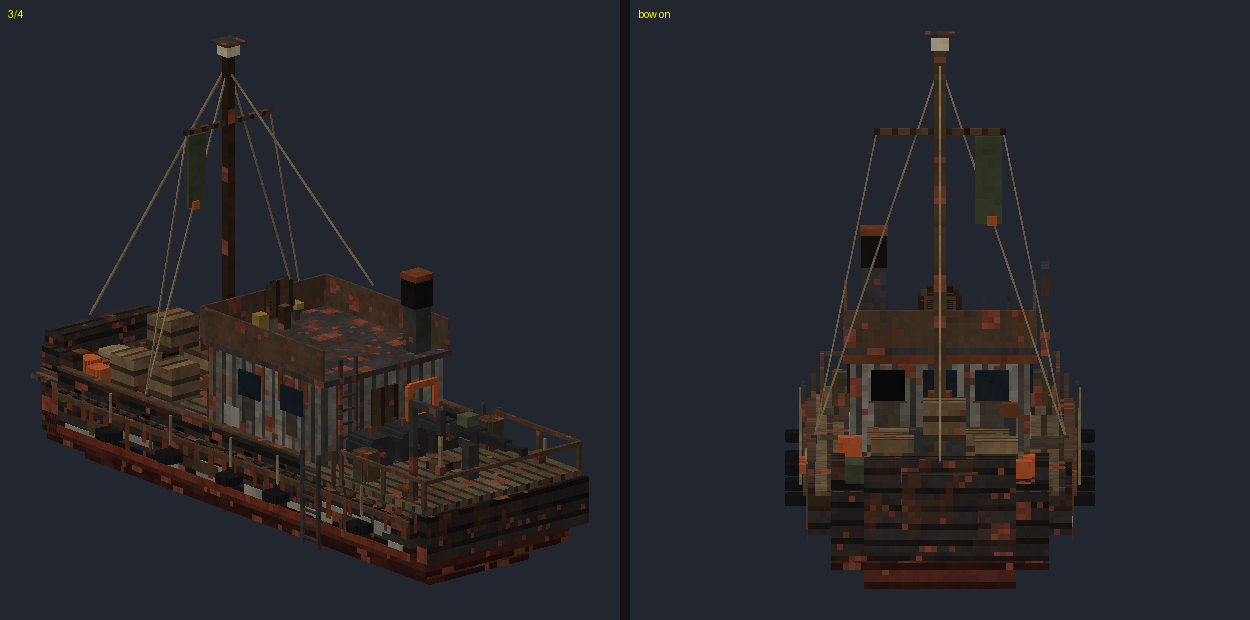
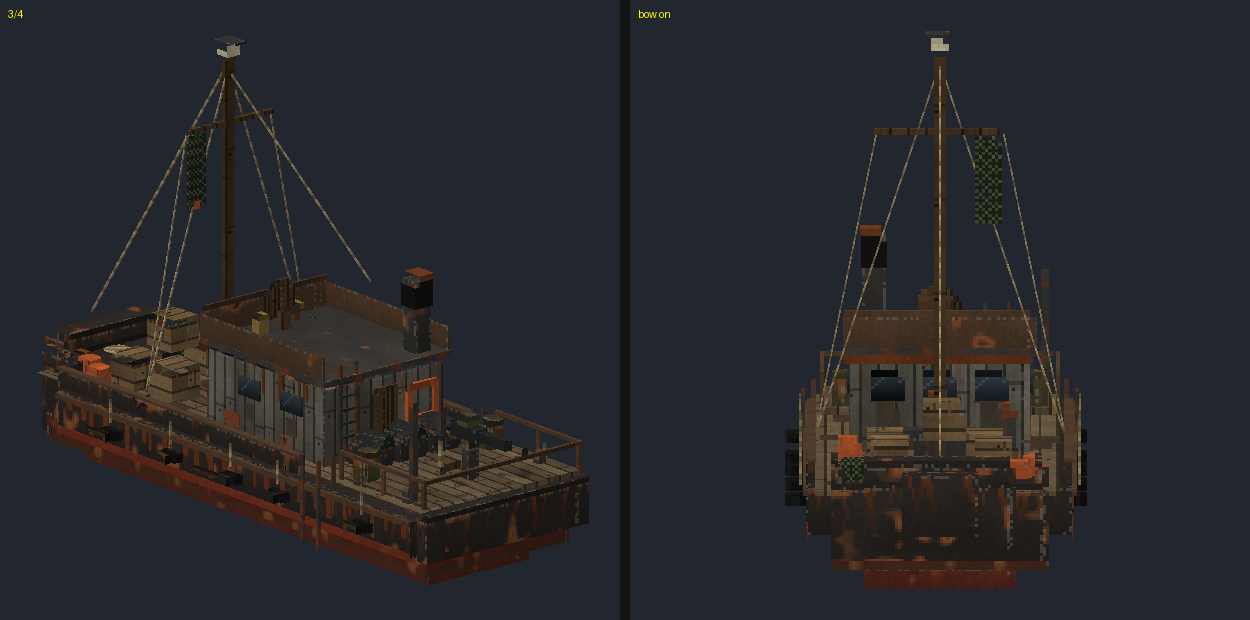
Shinsei Maru: weathered, face-aware texture at twice the resolution
Rusty hull plates with streaks, flaking primer and an algae band, planked
and grimy wheelhouse, nailed deck planks, net mesh, rope and tyre patterns.

Claude-Session: https://claude.ai/code/session_01FZRWx5ihaDNBvykxaLAGZd

diff --git a/tools/make_props.py b/tools/make_props.py
@@ -143,9 +143,13 @@ def weathered(region, amount, rng):
     return out * (1 - grime) + GRIME * grime
 
 
-def write(name, bones, size, palette, glow_kinds=None, seed=1, texels=TEXELS, planks=None, bounds=4, weather=None):
+def write(name, bones, size, palette, glow_kinds=None, seed=1, texels=TEXELS, planks=None, bounds=4, weather=None, styles=None):
+    """styles (kind -> how it's painted, see paint_boat) paints the texture face by face instead of with paint()."""
     pack(bones, size)
-    img, glow = paint(bones, size, palette, glow_kinds or {}, seed, texels, planks, weather)
+    if styles is not None:
+        img, glow = paint_boat(bones, size, palette, seed, texels, styles), None
+    else:
+        img, glow = paint(bones, size, palette, glow_kinds or {}, seed, texels, planks, weather)
     tex = os.path.join(ASSETS, "textures", "entity")
     Image.fromarray(img.astype(np.uint8), "RGBA").save(os.path.join(tex, name + ".png"))
     if glow_kinds:
@@ -173,6 +177,233 @@ def write(name, bones, size, palette, glow_kinds=None, seed=1, texels=TEXELS, pl
         json.dump(geo, f, indent=1)
         f.write("\n")
     print("wrote", name, sum(len(b["cubes"]) for b in bones.values()), "cubes")
+
+
+# ---------------------------------------------------------------- the Shinsei Maru's weathered paint
+
+RUST_DARK2 = np.array([70.0, 36.0, 22.0])
+RUST_MID = np.array([122.0, 62.0, 32.0])
+RUST_LIGHT = np.array([160.0, 92.0, 50.0])
+BARE = np.array([104.0, 102.0, 98.0])
+ALGAE = np.array([58.0, 66.0, 40.0])
+
+
+def smooth_noise(h, w, cell, rng, octaves=2):
+    """Value noise in [0, 1]: random values on a coarse grid, bilinearly blended, a finer octave on top."""
+    out = np.zeros((h, w))
+    amp, total = 1.0, 0.0
+    for o in range(octaves):
+        c = max(1.0, cell / (2 ** o))
+        gh, gw = int(h / c) + 2, int(w / c) + 2
+        grid = rng.random((gh, gw))
+        ys, xs = np.arange(h) / c, np.arange(w) / c
+        y0, x0 = np.floor(ys).astype(int), np.floor(xs).astype(int)
+        fy, fx = (ys - y0)[:, None], (xs - x0)[None, :]
+        fy, fx = fy * fy * (3 - 2 * fy), fx * fx * (3 - 2 * fx)
+        a = grid[y0][:, x0]
+        b = grid[y0][:, x0 + 1]
+        cc = grid[y0 + 1][:, x0]
+        d = grid[y0 + 1][:, x0 + 1]
+        out += amp * ((a * (1 - fx) + b * fx) * (1 - fy) + (cc * (1 - fx) + d * fx) * fy)
+        total += amp
+        amp *= 0.5
+    return out / total
+
+
+def faces(sx, sy, sz):
+    """The faces of a box's UV net (Bedrock box UV, in texels): (name, x, y, width, height). Sides run top to bottom."""
+    return [("top", sz, 0, sx, sz), ("bottom", sz + sx, 0, sx, sz),
+            ("side", 0, sz, sz, sy), ("side", sz, sz, sx, sy), ("side", sz + sx, sz, sz, sy), ("side", 2 * sz + sx, sz, sx, sy)]
+
+
+def rusty_side(face, base, amount, t, rng, primer=True, algae=0.0):
+    """A painted side, weathered: grime darkening towards the bottom, rust running down from the top edge in streaks
+    (darker, browner as they go), rust blooms with dark cores, flakes of paint gone to the primer (or bare metal) with
+    a dark rim, and the edges worn pale."""
+    h, w = face.shape[:2]
+    if h == 0 or w == 0:
+        return face
+    out = face.copy()
+    down = (np.arange(h) / max(1, h - 1))[:, None]
+    if min(h, w) <= 2 * t:
+        # a thin rail or rung: just rusty, here and there (flakes and worn edges would stripe it)
+        n = smooth_noise(h, w, 2.0 * t, rng)
+        m = (np.clip((n - (1.0 - 0.45 * amount)) / 0.2, 0, 1) * 0.8)[..., None]
+        return out * (1 - m) + RUST_MID * m
+    out *= (1.0 - 0.22 * amount * down ** 1.5)[..., None]
+    # streaks: from points along the top, running down, wavering, fading; a few long ones, more short ones
+    for _ in range(int(w * 0.09 * amount * t) + (1 if rng.random() < amount else 0)):
+        x = rng.integers(0, w)
+        length = int(h * rng.uniform(0.25, 1.0))
+        width = rng.integers(1, max(2, t + 1))
+        strength = rng.uniform(0.35, 0.8) * amount
+        for k in range(length):
+            xx = int(np.clip(x + round(np.sin(k * 0.35 + x) * 0.7), 0, w - 1))
+            f = (1.0 - k / max(1, length)) ** 0.8 * strength
+            col = RUST_MID * (1 - k / max(1, length)) + RUST_DARK2 * (k / max(1, length))
+            out[k, xx:xx + width] = out[k, xx:xx + width] * (1 - f) + col * f
+    # rust blooms: noise above a threshold, dark at the heart, orange round it
+    n = smooth_noise(h, w, 4.0 * t, rng)
+    bloom = np.clip((n - (1.0 - 0.34 * amount)) / 0.12, 0, 1)
+    heart = np.clip((n - (1.0 - 0.14 * amount)) / 0.06, 0, 1)
+    rust_col = RUST_LIGHT * (1 - heart[..., None]) + RUST_DARK2 * heart[..., None]
+    out = out * (1 - 0.85 * bloom[..., None]) + rust_col * (0.85 * bloom[..., None])
+    # flakes: patches where the paint has gone, to the red primer or bare metal, rimmed dark
+    f = smooth_noise(h, w, 3.0 * t, rng)
+    flake = f > 1.0 - 0.1 * amount
+    rim = np.zeros_like(flake)
+    rim[1:, :] |= flake[:-1, :] & ~flake[1:, :]
+    rim[:, 1:] |= flake[:, :-1] & ~flake[:, 1:]
+    under = PRIMER if primer else BARE
+    out[flake] = under * (0.85 + 0.25 * rng.random((int(flake.sum()), 1)))
+    out[rim] *= 0.7
+    # worn edges: the paint rubbed pale along the face's edges, here and there
+    edge = np.zeros((h, w), bool)
+    edge[0, :] = edge[-1, :] = True
+    edge[:, 0] = edge[:, -1] = True
+    worn = edge & (rng.random((h, w)) < 0.45 * amount)
+    out[worn] = out[worn] * 0.6 + np.array([150.0, 146.0, 136.0]) * 0.4
+    if algae > 0:
+        band = (np.clip((down - 0.6) / 0.4, 0, 1) * algae * (0.6 + 0.4 * smooth_noise(h, w, 2.0 * t, rng)))[..., None]
+        out = out * (1 - band) + ALGAE * band
+    return out
+
+
+def planked(face, base, t, rng, along_rows, stain=0.0):
+    """Planks (3 model pixels wide) laid along the face's rows or columns: each its own shade, dark seams, wood grain
+    running along it, a nail at each end of each length; oil and water stains on top."""
+    h, w = face.shape[:2]
+    if h == 0 or w == 0:
+        return face
+    step = 3 * t
+    across = np.arange(h) if along_rows else np.arange(w)
+    plank = across // step
+    tint = 0.82 + 0.3 * rng.random(int(plank.max()) + 2)
+    seam = (across % step == 0)
+    grain_dir = (h, w)
+    g = smooth_noise(h, w, 1.0, rng, octaves=1)
+    # grain: noise stretched along the planks
+    stretch = smooth_noise(*(grain_dir), 6.0 * t, rng)
+    if along_rows:
+        grain = 0.9 + 0.2 * (0.6 * stretch + 0.4 * np.repeat(g[:, :1], w, axis=1))
+        shade = (tint[plank] * np.where(seam, 0.55, 1.0))[:, None]
+    else:
+        grain = 0.9 + 0.2 * (0.6 * stretch + 0.4 * np.repeat(g[:1, :], h, axis=0))
+        shade = (tint[plank] * np.where(seam, 0.55, 1.0))[None, :]
+    out = face * (shade * grain)[..., None]
+    # plank ends with nails every ~16 model pixels along
+    length = w if along_rows else h
+    for p in range(int(plank.max()) + 1):
+        offset = rng.integers(0, 16 * t)
+        for end in range(offset, length, 16 * t):
+            mid = p * step + step // 2
+            if along_rows and mid < h:
+                out[min(h - 1, p * step):min(h, (p + 1) * step), end:end + 1] *= 0.7
+                out[mid, min(w - 1, end + t)] *= 0.45
+            elif not along_rows and mid < w:
+                out[end:end + 1, min(w - 1, p * step):min(w, (p + 1) * step)] *= 0.7
+                out[min(h - 1, end + t), mid] *= 0.45
+    if stain > 0:
+        st = smooth_noise(h, w, 5.0 * t, rng)
+        m = np.clip((st - (1.0 - 0.3 * stain)) / 0.15, 0, 1)[..., None]
+        out = out * (1 - 0.45 * m)
+    return out
+
+
+def net_pattern(face, t, rng):
+    """Netting: a mesh of knotted twine, dark gaps between."""
+    h, w = face.shape[:2]
+    out = face * 0.55
+    yy, xx = np.mgrid[0:h, 0:w]
+    mesh = ((xx + yy) % (2 * t) == 0) | ((xx - yy) % (2 * t) == 0)
+    out[mesh] = face[mesh] * 1.15
+    knots = ((xx + yy) % (2 * t) == 0) & ((xx - yy) % (2 * t) == 0)
+    out[knots] = face[knots] * 1.35
+    return out
+
+
+def rope_pattern(face, t, rng):
+    """Twisted rope: diagonal strands."""
+    h, w = face.shape[:2]
+    yy, xx = np.mgrid[0:h, 0:w]
+    band = ((xx + yy) // max(1, t)) % 3
+    return face * np.choose(band, [0.8, 1.05, 1.2])[..., None]
+
+
+def tyre_pattern(face, t, rng):
+    """An old tyre: worn rubber, tread grooves, scuffed paler."""
+    h, w = face.shape[:2]
+    yy, xx = np.mgrid[0:h, 0:w]
+    tread = np.where((xx // max(1, t)) % 3 == 0, 0.7, 1.0)
+    scuff = 1.0 + 0.5 * (smooth_noise(h, w, 3.0 * t, rng) > 0.72)
+    return face * (tread * scuff)[..., None]
+
+
+def window_pattern(face, t, rng):
+    """Old glass: dark, a pale sky reflection across the top, a diagonal glint, grime in the bottom corners."""
+    h, w = face.shape[:2]
+    yy, xx = np.mgrid[0:h, 0:w]
+    out = face.copy()
+    sky = np.clip(1.0 - yy / max(1, h * 0.6), 0, 1)[..., None]
+    out = out * (1 - 0.35 * sky) + np.array([120.0, 136.0, 150.0]) * 0.35 * sky
+    glint = (np.abs((xx - yy) - w // 3) < max(1, t // 2)) & (yy < h // 2)
+    out[glint] = out[glint] * 0.75 + 40
+    grime = np.clip(yy / max(1, h - 1) - 0.6, 0, 1)[..., None] * 1.6
+    return out * (1 - 0.5 * grime) + np.array([70.0, 62.0, 50.0]) * 0.5 * grime
+
+
+def paint_boat(bones, size, palette, seed, texels, styles):
+    """The Shinsei Maru's texture: each cube's faces painted for what they are (styles: kind -> how)."""
+    rng = np.random.default_rng(seed)
+    n = size * texels
+    img = np.zeros((n, n, 4))
+    t = texels
+    for bone in bones.values():
+        for c in bone["cubes"]:
+            u, v = c["uv"]
+            sx, sy, sz = (max(1, math.ceil(q)) * t for q in c["size"])
+            kind = c["kind"]
+            base = np.array(palette[kind], float)
+            style = styles.get(kind, {})
+            for name, fx, fy, fw, fh in faces(sx, sy, sz):
+                if fw == 0 or fh == 0:
+                    continue
+                face = np.empty((fh, fw, 3))
+                face[:] = base
+                # paint is never one flat colour: a slow mottle and a fine grain
+                face *= (0.9 + 0.2 * smooth_noise(fh, fw, 6.0 * t, rng))[..., None]
+                face *= (0.95 + 0.1 * rng.random((fh, fw)))[..., None]
+                how = style.get("how", "plain")
+                amount = style.get("weather", 0.0)
+                if how == "painted":
+                    if name == "side":
+                        face = rusty_side(face, base, amount, t, rng, primer=style.get("primer", True), algae=style.get("algae", 0.0))
+                    elif name == "top":
+                        face = rusty_side(face, base, amount * 0.6, t, rng, primer=style.get("primer", True))
+                    else:
+                        face *= 0.75
+                elif how == "planks":
+                    along_rows = style.get("rows", True) if name == "side" else style.get("top_rows", False)
+                    face = planked(face, base, t, rng, along_rows, stain=style.get("stain", 0.0) if name == "top" else 0.0)
+                    if amount and name == "side":
+                        face = rusty_side(face, base, amount * 0.5, t, rng, primer=False)
+                        grime = style.get("grime", 0.0)
+                        if grime:
+                            down = (np.arange(fh) / max(1, fh - 1))[:, None]
+                            dirt = (grime * (0.4 + 0.6 * down) * smooth_noise(fh, fw, 3.0 * t, rng))[..., None]
+                            face = face * (1 - dirt) + np.array([60.0, 54.0, 44.0]) * dirt
+                elif how == "net":
+                    face = net_pattern(face, t, rng)
+                elif how == "rope":
+                    face = rope_pattern(face, t, rng)
+                elif how == "tyre":
+                    face = tyre_pattern(face, t, rng)
+                elif how == "window":
+                    face = window_pattern(face, t, rng) if name == "side" else face * 0.8
+                y0, x0 = v * t + fy, u * t + fx
+                img[y0:y0 + fh, x0:x0 + fw, :3] = np.clip(face, 0, 255)
+                img[y0:y0 + fh, x0:x0 + fw, 3] = 255
+    return img
 
 
 def searchlight():
@@ -441,17 +672,27 @@ def shinsei_maru():
     bones["gun"] = gun
     bones["gun_barrel"] = barrel
     palette = {"bottom": (96, 44, 34), "hull": (52, 46, 42), "boottop": (122, 52, 34), "rail": (88, 66, 48),
-               "deck": (104, 88, 66), "stain": (70, 58, 44), "cabin": (128, 124, 112), "window": (26, 34, 40),
+               "deck": (104, 88, 66), "stain": (70, 58, 44), "cabin": (112, 108, 96), "window": (26, 34, 40),
                "broken": (12, 14, 16), "grime": (74, 66, 54), "roof": (66, 62, 58), "wood": (88, 66, 44),
                "crate": (128, 102, 70), "rope": (146, 128, 92), "metal": (60, 60, 58), "rust": (116, 62, 34),
-               "streak": (110, 56, 30), "flake": (150, 146, 132), "patch": (72, 56, 40), "tyre": (26, 26, 26),
+               "streak": (110, 56, 30), "flake": (128, 66, 46), "patch": (72, 56, 40), "tyre": (26, 26, 26),
                "net": (66, 74, 52), "buoy": (196, 92, 48), "brass": (150, 122, 62), "soot": (24, 22, 20),
                "dark": (16, 14, 12), "drum": (74, 70, 46), "lamp": (214, 204, 168), "mine": (46, 48, 46),
                "gun": (40, 42, 40), "drab": (78, 84, 56)}
-    write("shinsei_maru", bones, 1024, palette, seed=7, texels=1, bounds=20,
-          planks={"hull": "h", "bottom": "h", "cabin": "v", "deck": "v", "crate": "h", "patch": "h", "wood": "v"},
-          weather={"hull": 1.0, "bottom": 0.8, "cabin": 0.9, "roof": 1.0, "metal": 1.0, "deck": 0.7, "rail": 0.7,
-                   "drum": 1.0, "crate": 0.4, "boottop": 0.6, "wood": 0.5})
+    # painted face by face (paint_boat), two texels to each of the model's pixels (a 2048 sheet for its 1024 UV space)
+    styles = {
+        "hull": {"how": "painted", "weather": 1.0}, "bottom": {"how": "painted", "weather": 0.9, "algae": 0.9},
+        "boottop": {"how": "painted", "weather": 0.7, "algae": 0.5}, "roof": {"how": "painted", "weather": 1.0, "primer": False},
+        "rail": {"how": "painted", "weather": 0.75}, "metal": {"how": "painted", "weather": 1.0, "primer": False},
+        "drum": {"how": "painted", "weather": 1.0}, "gun": {"how": "painted", "weather": 0.3, "primer": False},
+        "mine": {"how": "painted", "weather": 0.8, "primer": False}, "buoy": {"how": "painted", "weather": 0.5, "primer": False},
+        "drab": {"how": "painted", "weather": 0.4, "primer": False}, "brass": {"how": "painted", "weather": 0.3, "primer": False},
+        "cabin": {"how": "planks", "rows": False, "weather": 1.0, "grime": 0.35}, "deck": {"how": "planks", "rows": True, "top_rows": False, "stain": 0.8},
+        "wood": {"how": "planks", "rows": False, "weather": 0.3}, "crate": {"how": "planks", "rows": True, "top_rows": True, "weather": 0.3},
+        "patch": {"how": "planks", "rows": True},
+        "rope": {"how": "rope"}, "net": {"how": "net"}, "tyre": {"how": "tyre"}, "window": {"how": "window"}, "broken": {"how": "window"},
+    }
+    write("shinsei_maru", bones, 1024, palette, seed=7, texels=2, bounds=20, styles=styles)
 
 
 def main():
